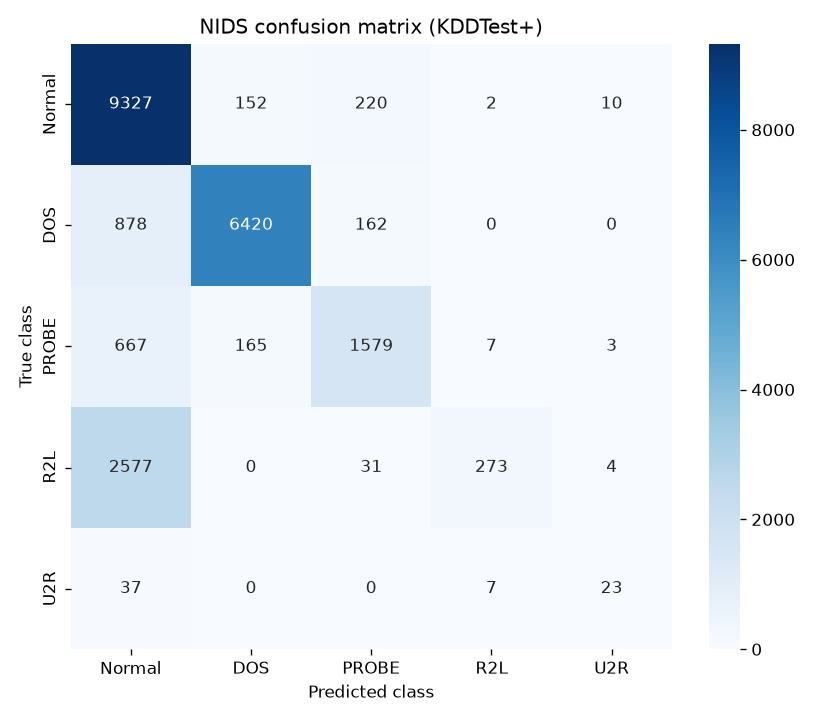
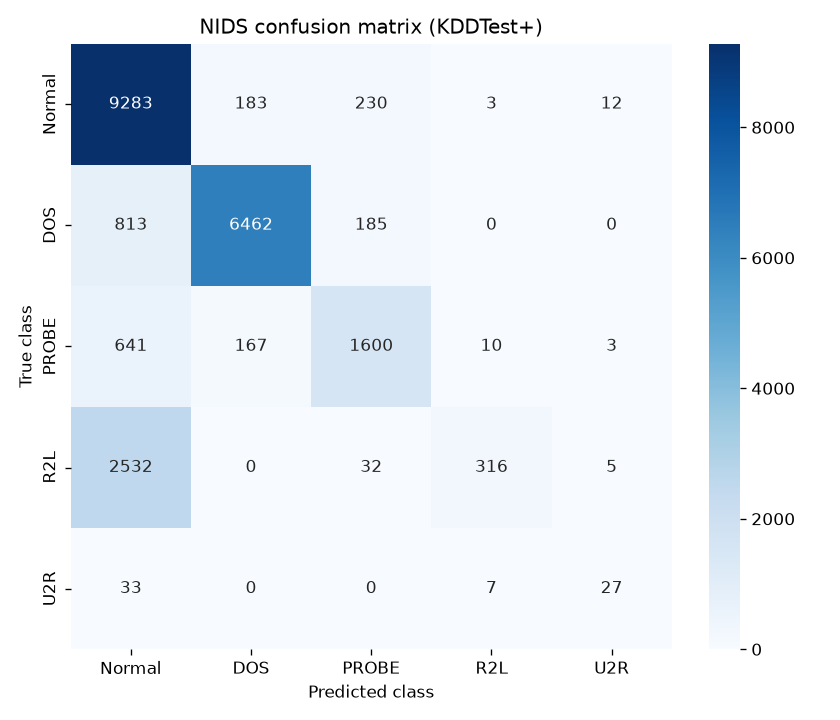
Harden web app, load models safely, tune detection threshold
Security hardening (app/app.py):
- Opt-in API-key auth on /api/predict via X-API-Key (constant-time
  compare); inert unless NIDS_API_KEY is set.
- Per-IP fixed-window rate limiting on both inference routes
  (NIDS_RATE_LIMIT req/min, default 120, 0 disables; skipped under TESTING).
- Stop leaking exception detail to clients; log server-side, return
  a generic message.

Safe model loading (src/predict.py):
- Switch torch.load to weights_only=True. The checkpoints hold only
  tensors + plain metadata, so the restricted loader accepts them and
  the arbitrary-code-execution path on a tampered .pt file is closed.

Detection tuning (config.yaml + regenerated reports):
- Lower attack_threshold 0.5 -> 0.35 to favour recall on KDDTest+:
  detection rate 67.6% -> 68.7%, binary accuracy 79.8% -> 80.3%, for a
  small false-alarm rise (3.95% -> 4.4%). Rare-class (R2L/U2R) gains are
  dataset-limited and need retraining, not a threshold change.
- Regenerated reports/metrics.json and reports/confusion_matrix.png.

All 4 tests pass.

diff --git a/app/app.py b/app/app.py
@@ -10,11 +10,22 @@ GET  /health       - liveness + model-availability probe
 
 Run locally:   python app/app.py
 Production:    gunicorn -w 4 -b 0.0.0.0:5000 app.app:app
+
+Security (opt-in, off by default so local demos keep working)
+-------------------------------------------------------------
+* NIDS_API_KEY   - if set, /api/predict requires an ``X-API-Key`` header that
+                   matches it (constant-time compared). Unset => open, as before.
+* NIDS_RATE_LIMIT- max requests/minute/client-IP for the inference endpoints.
+                   Defaults to 120; set to 0 to disable. Skipped under TESTING.
 """
 
+import hmac
 import json
+import logging
 import os
 import sys
+import time
+from collections import defaultdict, deque
 
 # Make the project root importable whether launched as `python app/app.py`
 # or `gunicorn app.app:app` from the repo root.
@@ -34,6 +45,49 @@ app = Flask(
     template_folder=os.path.join(PROJECT_ROOT, "templates"),
     static_folder=os.path.join(PROJECT_ROOT, "static"),
 )
+
+logger = logging.getLogger("nids.app")
+
+# --- Opt-in hardening for the inference endpoints -------------------------
+# Read once at import. Both features are inert unless configured, so existing
+# local/demo usage and the test-suite are unaffected.
+API_KEY = os.environ.get("NIDS_API_KEY", "").strip()
+try:
+    RATE_LIMIT = int(os.environ.get("NIDS_RATE_LIMIT", "120"))  # req/min/IP; 0 disables
+except ValueError:
+    RATE_LIMIT = 120
+_RATE_WINDOW_SEC = 60.0
+_hits: "defaultdict[str, deque]" = defaultdict(deque)
+
+
+def _client_ip() -> str:
+    """Best-effort client IP; trusts the first X-Forwarded-For hop if present."""
+    fwd = request.headers.get("X-Forwarded-For", "")
+    if fwd:
+        return fwd.split(",")[0].strip()
+    return request.remote_addr or "unknown"
+
+
+def _rate_limited(ip: str) -> bool:
+    """Fixed-window-per-IP limiter. No-op under TESTING or when disabled."""
+    if RATE_LIMIT <= 0 or app.config.get("TESTING"):
+        return False
+    now = time.monotonic()
+    dq = _hits[ip]
+    while dq and now - dq[0] > _RATE_WINDOW_SEC:
+        dq.popleft()
+    if len(dq) >= RATE_LIMIT:
+        return True
+    dq.append(now)
+    return False
+
+
+def _auth_ok() -> bool:
+    """True if auth is disabled, or the presented X-API-Key matches (constant-time)."""
+    if not API_KEY:
+        return True
+    presented = request.headers.get("X-API-Key", "")
+    return hmac.compare_digest(presented, API_KEY)
 
 # Per-class colour + emoji used for result styling in the templates.
 CLASS_STYLE = {
@@ -83,6 +137,12 @@ def index():
 
 @app.route("/predict", methods=["POST"])
 def predict():
+    if _rate_limited(_client_ip()):
+        return render_template(
+            "result.html", error="Too many requests. Please slow down and try again.",
+            class_style=CLASS_STYLE,
+        ), 429
+
     if not models_available():
         return render_template(
             "result.html", error=(
@@ -94,8 +154,10 @@ def predict():
     features = parse_form(request.form)
     try:
         result = get_predictor().predict_features(features)
-    except Exception as exc:  # noqa: BLE001 - surface a friendly message
-        return render_template("result.html", error=f"Prediction failed: {exc}",
+    except Exception:  # noqa: BLE001 - log detail server-side, stay generic to the client
+        logger.exception("prediction failed on /predict")
+        return render_template("result.html",
+                               error="Prediction failed due to an internal error.",
                                class_style=CLASS_STYLE), 500
 
     style = CLASS_STYLE.get(result["predicted_class"], CLASS_STYLE["Normal"])
@@ -108,6 +170,11 @@ def predict():
 @app.route("/api/predict", methods=["POST"])
 def api_predict():
     """JSON endpoint. Body: {"features": {<feature>: <value>, ...}} or a bare dict."""
+    if _rate_limited(_client_ip()):
+        return jsonify({"error": "rate_limited", "detail": "too many requests"}), 429
+    if not _auth_ok():
+        return jsonify({"error": "unauthorized"}), 401
+
     if not models_available():
         return jsonify({
             "error": "models_not_trained",
@@ -121,8 +188,9 @@ def api_predict():
 
     try:
         result = get_predictor().predict_features(features)
-    except Exception as exc:  # noqa: BLE001
-        return jsonify({"error": "prediction_failed", "detail": str(exc)}), 500
+    except Exception:  # noqa: BLE001 - log detail server-side, stay generic to the client
+        logger.exception("prediction failed on /api/predict")
+        return jsonify({"error": "prediction_failed"}), 500
     return jsonify(result)
 
 

diff --git a/src/predict.py b/src/predict.py
@@ -59,11 +59,12 @@ class Predictor:
             self.metadata = json.load(f)
         self.class_names: List[str] = self.metadata.get("class_names", CLASS_NAMES)
 
-        # ``weights_only=False`` because our checkpoint stores plain Python
-        # metadata (ints/lists) alongside the tensors. The files are produced by
-        # our own trainer, so this is safe.
-        bin_ckpt = torch.load(abspath(art["binary_model"]), map_location=self.device, weights_only=False)
-        mc_ckpt = torch.load(abspath(art["multiclass_model"]), map_location=self.device, weights_only=False)
+        # ``weights_only=True`` (the safe unpickler): our checkpoints hold only
+        # tensors plus plain Python metadata (ints/lists/str), all of which the
+        # restricted loader accepts. This closes the arbitrary-code-execution
+        # path a tampered ``.pt`` file would otherwise open at load time.
+        bin_ckpt = torch.load(abspath(art["binary_model"]), map_location=self.device, weights_only=True)
+        mc_ckpt = torch.load(abspath(art["multiclass_model"]), map_location=self.device, weights_only=True)
         self.binary_model = _build_from_checkpoint(bin_ckpt, self.device)
         self.multiclass_model = _build_from_checkpoint(mc_ckpt, self.device)
 
